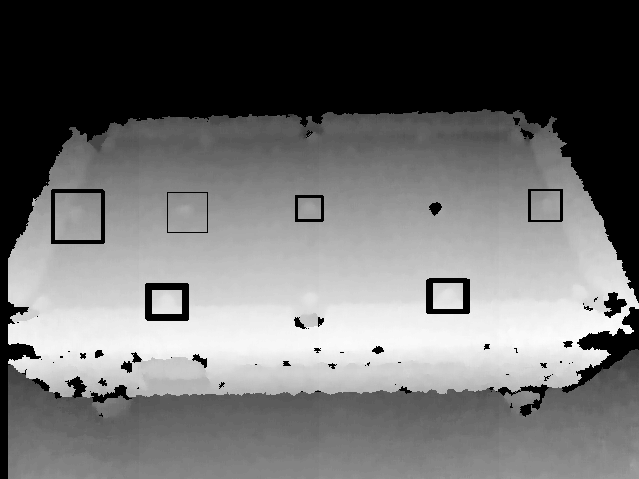
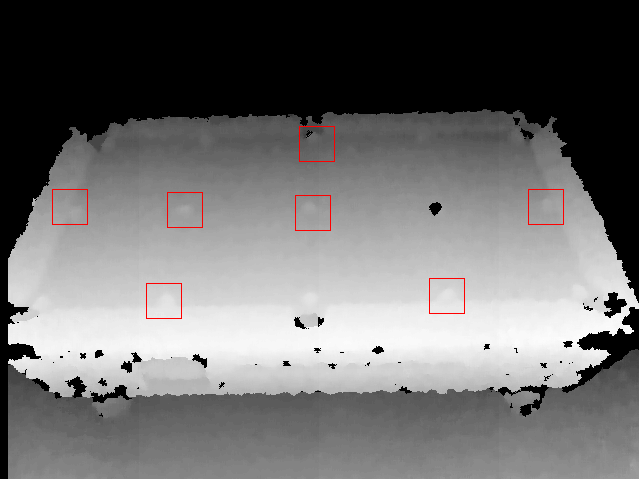
Template matching and slicing

diff --git a/run.py b/run.py
@@ -7,14 +7,20 @@ import matplotlib.pyplot as plt
 import datetime
 
 fullDatPath = "full/dat/"
-sampleDatPath = "sample/dat/"
 fullImgPath = "full/img/"
-sampleImgPath = "sample/img/"
 ballPath = "ball/"
 
 maxDepth = 3100
 minDepth = 1500
 threshold = .9999
+ballDim = 35
+ballOverlap = 10
+
+
+startX = 120
+endX = 310
+maxSliceDepth = 200
+
 
 # takes into account the extra tab and new line in data files
 def getDim(text):
@@ -60,6 +66,8 @@ def getArrayFromFile(filePathAndName):
 def getShade(minVal, maxVal, val):
     a = maxVal - minVal
     b = val - minVal
+    if b == 0:
+        return 0
     c = b / a
     x = (int) (255-(math.ceil(c*255)))
     return x
@@ -69,13 +77,19 @@ def getImage(arr):
     maxVal = arr.max()
     img = Image.new('RGB', (arr.shape[1], arr.shape[0]), "black")
     pmap = img.load()
+
+    maxVal = minVal + maxSliceDepth
+
     for row in range(arr.shape[0]):
         for col in range(arr.shape[1]):
-            s = getShade(minVal,maxVal,arr[row,col])
+            cellVal = arr[row,col]
+            if cellVal > maxVal:
+                cellVal = maxVal
+            s = getShade(minVal,maxVal,cellVal)
             pmap[col,row] = (s,s,s)
     return img
 # =============================================================== #
-def templateMatch(fullImage, templateFile):
+def templateMatch(fullImage, templateFile, inList):
     # Template File
     #print templateFile
     template = cv2.imread(templateFile, 1)
@@ -89,10 +103,16 @@ def templateMatch(fullImage, templateFile):
 
     loc = numpy.where( res >= threshold)
     for pt in zip(*loc[::-1]):
-        cv2.rectangle(fullImage, pt, (pt[0] + w, pt[1] + h), (0,0,255), 1)
+        if isOverlap(inList, pt, w, h) == False:
+            inList.append(pt)
 
-    return fullImage
-
+    return inList
+# =============================================================== #
+def isOverlap(inList, pt, w, h):
+    for item in inList:
+        if (abs(pt[0] - item[0]) <= ballOverlap) and (abs(pt[1] - item[1]) <= ballOverlap):
+            return True
+    return False
 # =============================================================== #
 def genImages(datPath, imgPath):
     for filename in os.listdir(datPath):
@@ -108,33 +128,57 @@ def getGradient(datFile):
 # =============================================================== #
 def findBalls(img, ballPath):
     img = cv2.cvtColor(img, cv2.COLOR_BGR2GRAY)
+    ballList = []
     for filename in os.listdir(ballPath):
-        img = templateMatch(img, ballPath+filename)
+        ballList = templateMatch(img, ballPath+filename, ballList)
+    return ballList
+# =============================================================== #
+def drawBoxes(ballList, img):
+    for item in ballList:
+        cv2.rectangle(img, item, (item[0] + ballDim, item[1] + ballDim), (0,0,255), 1)
     return img
+# =============================================================== #
+def methodTemplateMatching():
+    #genImages(fullDatPath, fullImgPath)
 
+    a = datetime.datetime.now()
+
+    datFile = "13b565f3-0062-4840-b75f-87a62423ca76_FULL.txt"
+    datFile = "509e4984-7917-4722-8503-220efc0669bc_FULL.txt"
+    datFile = "b0aa273e-716a-46c6-bb48-5b038965a132_FULL.txt"
+    datFile = "de9ec5aa-6b6e-4941-ad7e-b8efcc94464e_FULL.txt"
+
+    img = getGradient(datFile)
+
+    # format image
+    img = numpy.array(img) 
+    img = img[:, :, ::-1].copy() 
+
+    ballList = findBalls(img, ballPath)
+
+    b = datetime.datetime.now()
+    print "Calculation time: " + str(b-a)
+
+    print ballList
+    img = drawBoxes(ballList, img)
+
+    cv2.imwrite("result/img.png", img)
 # =============================================================== #
 
-
-#genImages(fullDatPath, fullImgPath)
-
-a = datetime.datetime.now()
-
+# Slicing
 datFile = "13b565f3-0062-4840-b75f-87a62423ca76_FULL.txt"
-#datFile = "509e4984-7917-4722-8503-220efc0669bc_FULL.txt"
-datFile = "b0aa273e-716a-46c6-bb48-5b038965a132_FULL.txt"
-datFile = "de9ec5aa-6b6e-4941-ad7e-b8efcc94464e_FULL.txt"
+datFile = "509e4984-7917-4722-8503-220efc0669bc_FULL.txt"
+#datFile = "b0aa273e-716a-46c6-bb48-5b038965a132_FULL.txt"
+#datFile = "de9ec5aa-6b6e-4941-ad7e-b8efcc94464e_FULL.txt"
 
-img = getGradient(datFile)
+arrFull = getArrayFromFile(fullDatPath+datFile)
 
-# format image
-img = numpy.array(img) 
-img = img[:, :, ::-1].copy() 
-
-img = findBalls(img, ballPath)
-
-b = datetime.datetime.now()
-
-print "Calculation time: " + str(b-a)
-
-cv2.imwrite("result/img.png", img)
-
+sliceHeight = 15
+x = startX
+while x < arrFull.shape[0]-sliceHeight and x < endX:
+    img = getImage(arrFull[x:x+sliceHeight])
+    # format image
+    img = numpy.array(img) 
+    img = img[:, :, ::-1].copy() 
+    cv2.imwrite("slices/"+str(x)+".png", img)
+    x+=sliceHeight-5
